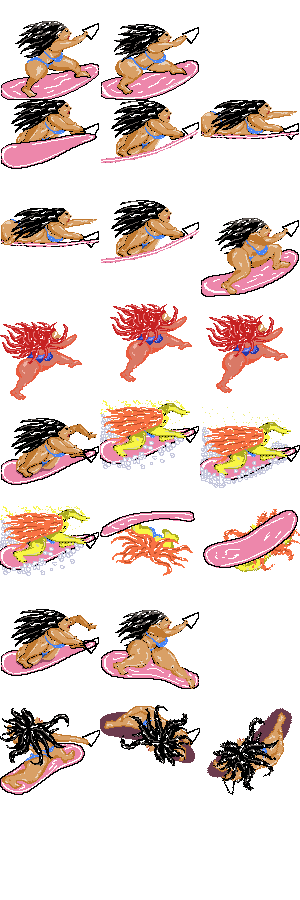
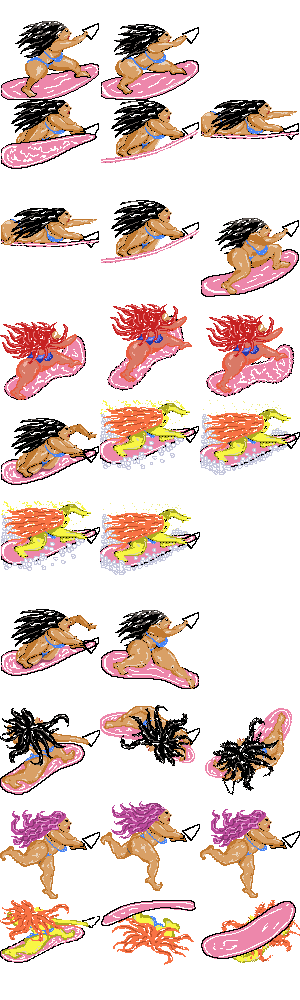
Obsticle Movement Update

diff --git a/FlowObstacle.c b/FlowObstacle.c
@@ -63,7 +63,6 @@ void UpdateObstaclesPosition()
 			else
 			{
 				Obstacles[i].ObstaclePos.x -= GameData.Speed*CP_System_GetDt();
-				
 			}
 		}
 	}
@@ -82,9 +81,14 @@ bool CheckObstaclesCollision()
 	if (CharacterData.CharacterState == STANDING && !CharacterData.bEndWaveInvincible)
 	{
 		float CharacterMinX = CharacterData.CharacterPos.x + CharacterData.CharacterCollisionOffset.x;
-		float CharacterMaxX = CharacterMinX + CharacterData.CharacterCollisionSize.x + CharacterData.CharacterCollisionOffset.x;
-		float CharacterMinY = CharacterData.CharacterPos.y;
+		float CharacterMaxX = CharacterMinX + CharacterData.CharacterCollisionSize.x;
+		float CharacterMinY = CharacterData.CharacterPos.y + CharacterData.CharacterCollisionOffset.y;
 		float CharacterMaxY = CharacterMinY + CharacterData.CharacterCollisionSize.y;
+		if (bDebugMode)
+		{
+			CP_Settings_Fill(CP_Color_Create(0, 0, 0, 100));
+			CP_Graphics_DrawRect(GameData.LaneMin.x + CharacterMinX, GameData.LaneMin.y + CharacterMinY, CharacterMaxX - CharacterMinX, CharacterMaxY - CharacterMinY);
+		}
 		for (int i = 0;i < MAX_OBSTACLES;i++)
 		{
 			if (Obstacles[i].bIsValid)
@@ -229,7 +233,7 @@ void RenderCharacter_Internal()
 		}
 	}
 	float CharacterDrawRatio = 0.8f + 0.2f * (CharacterData.CharacterPos.y / (GameData.LaneMax.y - GameData.LaneMin.y));
-	if(CharacterData.CharacterState == WAVING)
+	if(CharacterData.CharacterState == WAVING || CharacterData.CharacterState == HEIGHESTWAVE)
 	{
 		CharacterDrawRatio = 0.7f;
 	}
@@ -243,22 +247,23 @@ void RenderCharacter_Internal()
 		100.f * (CharacterData.AnimationFrame+1) - 1,
 		100.f * (CharacterData.CharacterState + 1) - 1,
 		255);
-	CP_Settings_Fill(CP_Color_Create(0, 0, 0, 100));
-	CP_Graphics_DrawRect(GameData.LaneMin.x + CharacterData.CharacterPos.x + CharacterData.CharacterCollisionOffset.x, GameData.LaneMin.y + CharacterData.CharacterPos.y, CharacterData.CharacterCollisionSize.x, CharacterData.CharacterCollisionSize.y);
 }
 
 void RenderObjects()
 {
 	if (CharacterData.CharacterState == COLLISION || CharacterData.CharacterState == JUMPUP || CharacterData.CharacterState == JUMPDOWN)
 	{
-		CP_Settings_Fill(CP_Color_Create(255, 255, 0, 255));
+		CP_Settings_Fill(CP_Color_Create(255, 255, 0, 100));
 		for (int i = 0;i < MAX_OBSTACLES; i++)
 		{
 			if (Obstacles[i].bIsValid)
 			{
 				CP_Image_Draw(Obstacles[i].ObstacleImage, GameData.LaneMin.x + Obstacles[i].ObstaclePos.x, GameData.LaneMin.y + Obstacles[i].ObstaclePos.y, Obstacles[i].ObstacleImageSize.x, Obstacles[i].ObstacleImageSize.y, 255);
 				//CollisionDebug
-				CP_Graphics_DrawRect(GameData.LaneMin.x + Obstacles[i].ObstaclePos.x + Obstacles[i].ObstacleCollisionStartOffset.x, GameData.LaneMin.y + Obstacles[i].ObstaclePos.y + Obstacles[i].ObstacleCollisionStartOffset.y, Obstacles[i].ObstacleCollisionSize.x + Obstacles[i].ObstacleCollisionStartOffset.x, Obstacles[i].ObstacleCollisionSize.y);
+				if (bDebugMode)
+				{
+					CP_Graphics_DrawRect(GameData.LaneMin.x + Obstacles[i].ObstaclePos.x + Obstacles[i].ObstacleCollisionStartOffset.x, GameData.LaneMin.y + Obstacles[i].ObstaclePos.y + Obstacles[i].ObstacleCollisionStartOffset.y, Obstacles[i].ObstacleCollisionSize.x + Obstacles[i].ObstacleCollisionStartOffset.x, Obstacles[i].ObstacleCollisionSize.y);
+				}
 			}
 		}
 		RenderCharacter_Internal();
@@ -278,11 +283,15 @@ void RenderObjects()
 			if (Obstacles[i].bIsValid)
 			{
 				// 장애물 그리기
-				CP_Image_Draw(Obstacles[i].ObstacleImage, GameData.LaneMin.x + Obstacles[i].ObstaclePos.x, GameData.LaneMin.y + Obstacles[i].ObstaclePos.y, Obstacles[i].ObstacleImageSize.x, Obstacles[i].ObstacleImageSize.y, 255);
+				CP_Image_Draw(Obstacles[i].ObstacleImage, floorf(GameData.LaneMin.x + Obstacles[i].ObstaclePos.x), GameData.LaneMin.y + Obstacles[i].ObstaclePos.y, Obstacles[i].ObstacleImageSize.x, Obstacles[i].ObstacleImageSize.y, 255);
 				//CollisionDebug
-				CP_Settings_Fill(CP_Color_Create(255, 255, 0, 255));
-				CP_Graphics_DrawRect(GameData.LaneMin.x + Obstacles[i].ObstaclePos.x + Obstacles[i].ObstacleCollisionStartOffset.x, GameData.LaneMin.y + Obstacles[i].ObstaclePos.y+Obstacles[i].ObstacleCollisionStartOffset.y, Obstacles[i].ObstacleCollisionSize.x + Obstacles[i].ObstacleCollisionStartOffset.x, Obstacles[i].ObstacleCollisionSize.y);
+				if (bDebugMode)
+				{
+					CP_Settings_Fill(CP_Color_Create(255, 255, 0,100));
+					CP_Graphics_DrawRect(GameData.LaneMin.x + Obstacles[i].ObstaclePos.x + Obstacles[i].ObstacleCollisionStartOffset.x, GameData.LaneMin.y + Obstacles[i].ObstaclePos.y + Obstacles[i].ObstacleCollisionStartOffset.y, Obstacles[i].ObstacleCollisionSize.x + Obstacles[i].ObstacleCollisionStartOffset.x, Obstacles[i].ObstacleCollisionSize.y);
+				}
 			}
+
 		}
 
 		// 만약 캐릭터가 가장 아래쪽일 경우 (아직 안 그려졌다면)

diff --git a/AssetLib.c b/AssetLib.c
@@ -80,55 +80,55 @@ void InitAsset()
 
 	BoxData.ObstacleImage = CP_Image_Load("./Assets/Box.png");
 	BoxData.ObstacleImageSize = CP_Vector_Set(120.f, 30.f);
-	BoxData.ObstacleCollisionStartOffset = CP_Vector_Set(10.f, 20.f);
-	BoxData.ObstacleCollisionSize = CP_Vector_Set(100.f, 10.f);
+	BoxData.ObstacleCollisionStartOffset = CP_Vector_Set(15.f, 20.f);
+	BoxData.ObstacleCollisionSize = CP_Vector_Set(80.f, 10.f);
 	BoxData.Score = 50.f;
 	//TODO : Image Size and collision size tune needed
 	BallData.ObstacleImage = CP_Image_Load("./Assets/Ball.png");
 	BallData.ObstacleImageSize = CP_Vector_Set(80.f, 50.f);
-	BallData.ObstacleCollisionStartOffset = CP_Vector_Set(10.f, 20.f);
+	BallData.ObstacleCollisionStartOffset = CP_Vector_Set(10.f, 10.f);
 	BallData.ObstacleCollisionSize = CP_Vector_Set(50.f, 30.f);
 	BallData.Score = 50.f;
 
 	DolpinData.ObstacleImage = CP_Image_Load("./Assets/Dolpin.png");
 	DolpinData.ObstacleImageSize = CP_Vector_Set(80.f, 50.f);
-	DolpinData.ObstacleCollisionStartOffset = CP_Vector_Set(10.f, 20.f);
+	DolpinData.ObstacleCollisionStartOffset = CP_Vector_Set(10.f, 10.f);
 	DolpinData.ObstacleCollisionSize = CP_Vector_Set(50.f, 30.f);
 	DolpinData.Score = 50.f;
 
 	CameraData.ObstacleImage = CP_Image_Load("./Assets/Camera.png");
 	CameraData.ObstacleImageSize = CP_Vector_Set(80.f, 50.f);
-	CameraData.ObstacleCollisionStartOffset = CP_Vector_Set(10.f, 20.f);
+	CameraData.ObstacleCollisionStartOffset = CP_Vector_Set(10.f, 10.f);
 	CameraData.ObstacleCollisionSize = CP_Vector_Set(50.f, 30.f);
 	CameraData.Score = 50.f;
 
 	IcecreamData.ObstacleImage = CP_Image_Load("./Assets/Icecream.png");
 	IcecreamData.ObstacleImageSize = CP_Vector_Set(80.f, 50.f);
-	IcecreamData.ObstacleCollisionStartOffset = CP_Vector_Set(10.f, 20.f);
+	IcecreamData.ObstacleCollisionStartOffset = CP_Vector_Set(10.f, 10.f);
 	IcecreamData.ObstacleCollisionSize = CP_Vector_Set(50.f, 30.f);
 	IcecreamData.Score = 50.f;
 
 	StarFishData.ObstacleImage = CP_Image_Load("./Assets/StarFish.png");
 	StarFishData.ObstacleImageSize = CP_Vector_Set(80.f, 50.f);
-	StarFishData.ObstacleCollisionStartOffset = CP_Vector_Set(10.f, 20.f);
+	StarFishData.ObstacleCollisionStartOffset = CP_Vector_Set(10.f, 10.f);
 	StarFishData.ObstacleCollisionSize = CP_Vector_Set(50.f, 30.f);
 	StarFishData.Score = 50.f;
 
 	TubeData.ObstacleImage = CP_Image_Load("./Assets/Tube.png");
 	TubeData.ObstacleImageSize = CP_Vector_Set(80.f, 50.f);
-	TubeData.ObstacleCollisionStartOffset = CP_Vector_Set(10.f, 20.f);
+	TubeData.ObstacleCollisionStartOffset = CP_Vector_Set(10.f, 10.f);
 	TubeData.ObstacleCollisionSize = CP_Vector_Set(50.f, 30.f);
 	TubeData.Score = 50.f;
 
 	CrabData.ObstacleImage = CP_Image_Load("./Assets/Crab.png");
 	CrabData.ObstacleImageSize = CP_Vector_Set(80.f, 50.f);
-	CrabData.ObstacleCollisionStartOffset = CP_Vector_Set(10.f, 20.f);
+	CrabData.ObstacleCollisionStartOffset = CP_Vector_Set(10.f, 10.f);
 	CrabData.ObstacleCollisionSize = CP_Vector_Set(50.f, 30.f);
 	CrabData.Score = 50.f;
 
 	JellyfishData.ObstacleImage = CP_Image_Load("./Assets/Jellyfish.png");
 	JellyfishData.ObstacleImageSize = CP_Vector_Set(80.f, 50.f);
-	JellyfishData.ObstacleCollisionStartOffset = CP_Vector_Set(10.f, 20.f);
+	JellyfishData.ObstacleCollisionStartOffset = CP_Vector_Set(10.f, 10.f);
 	JellyfishData.ObstacleCollisionSize = CP_Vector_Set(50.f, 30.f);
 	JellyfishData.Score = 50.f;
 

diff --git a/Game.c b/Game.c
@@ -33,6 +33,7 @@ void game_init(void)
 	CP_Settings_RectMode(CP_POSITION_CORNER);
 	CP_Settings_TextSize(64);
 	CP_Settings_TextAlignment(CP_TEXT_ALIGN_H_LEFT, CP_TEXT_ALIGN_V_TOP);
+	CP_System_SetFrameRate(120);
 	// initialize variables and CProcessing settings for this gamestate
 }
 
@@ -50,16 +51,17 @@ void game_update(void)
 	DrawWater();
 	//	CP_Graphics_DrawRect(GameData.LaneMin.x, GameData.LaneMin.y, GameData.LaneMax.x-GameData.LaneMin.x, GameData.LaneMax.y - GameData.LaneMin.y);
 
-	RenderObjects();
+
 	UpdateKeyInput();
 	UpdateCharacterPosition();
 	UpdateObstaclesPosition();
 	UpdateItemsPosition();
+	CheckItemsCollision();
 	DrawNearBackGround();
+	RenderObjects();
 	RenderBatteries();
 	RenderSpeedItems();
 	RenderMedal();
-	CheckItemsCollision();
 
 	if (BigWaveData.WaveIndex >= BigWaveData.WaveRiderableStartIndex + 1 && BigWaveData.WaveIndex <= BigWaveData.WaveRiderableEndIndex - 1)
 	{
@@ -76,14 +78,7 @@ void game_update(void)
 
 	if (CharacterData.CharacterState == JUMPDOWN)
 	{
-		//Debug
-		CP_Settings_Fill(CP_Color_Create(128, 128, 128, 128));
-		CP_Graphics_DrawRect(GameData.LaneMin.x + CharacterData.CharacterPos.x, GameData.LaneMin.y + CharacterData.CharacterPos.y, 40.f, 20.f);
 		CharacterData.JumpTimer += CP_System_GetDt();
-		//if (CharacterData.JumpTimer > 1.5f)
-		//{
-		//	SetCharacterState(STANDING);
-		//}
 	}
 	if (CharacterData.JumpTimer != 0.f)//TODO : nearly 0
 	{
@@ -95,8 +90,6 @@ void game_update(void)
 	}
 	if (CharacterData.CharacterState == COLLISION)
 	{
-		CP_Settings_Fill(CP_Color_Create(0, 0, 0, 128));
-		CP_Graphics_DrawRect(GameData.LaneMin.x + CharacterData.CharacterPos.x, GameData.LaneMin.y + CharacterData.CharacterPos.y, 40.f, 20.f);
 		CharacterData.CollisionTimer += CP_System_GetDt();
 		if (CharacterData.CollisionTimer > 1.5f)
 		{
@@ -113,7 +106,7 @@ void game_update(void)
 			CharacterData.EndWaveInvincibleTimer = 0.f;
 		}
 	}
-
+	
 	if (GameData.Speed < 3000.f)// update game speed
 	{
 		GameData.SpeedTimer += CP_System_GetDt();
@@ -145,9 +138,14 @@ void game_update(void)
 	//TEST
 	CharacterData.Score += CP_System_GetDt()*GameData.Speed*0.1f;
 	char ScoreBuffer[128] = { 0 };
-	sprintf_s(ScoreBuffer, 128, "Score : %f", CharacterData.Score);
+	sprintf_s(ScoreBuffer, 128, "Score : %10.2f\n%.6f", CharacterData.Score, CP_System_GetDt());
 	CP_Font_DrawText(ScoreBuffer, 0.f, GameData.LaneMax.y);
 
+
+	if (CP_System_GetDt() > 0.016 * 2)
+	{
+		printf("delayed");
+	}
 }
 
 // use CP_Engine_SetNextGameState to specify this function as the exit function

diff --git a/GlobalVariables.c b/GlobalVariables.c
@@ -16,6 +16,9 @@ FBigWaveData BigWaveData;
 
 float InitGameSpeed = 200.f;
 
+//Debug only, Set false when release
+bool bDebugMode = false;
+
 void InitGameData()
 {
 	GameData.Speed = InitGameSpeed;
@@ -32,8 +35,8 @@ void InitGameData()
 void InitCharacterData()
 {
 	CharacterData.CharacterPos = CP_Vector_Set((GameData.LaneMax.x-GameData.LaneMin.x)/5.f,(GameData.LaneMax.y-GameData.LaneMin.y)/2.f);
-	CharacterData.CharacterCollisionSize = CP_Vector_Set(180.f,60.f);//TODO : Use Image and Set Collision Size
-	CharacterData.CharacterCollisionOffset = CP_Vector_Set(10.f, 0.f);
+	CharacterData.CharacterCollisionSize = CP_Vector_Set(90.f,40.f);//TODO : Use Image and Set Collision Size
+	CharacterData.CharacterCollisionOffset = CP_Vector_Set(55.f, -10.f);
 	CharacterData.JumpTimer = 0.f;
 	CharacterData.Energy = 200.f;
 	CharacterData.CollisionTimer = 0.f;
@@ -110,19 +113,19 @@ void SetCharacterState(ECharacterState NewState)
 			CharacterData.AnimationMaxFrame = 1;
 			break;
 		case JUMPUP :
-			CharacterData.AnimationMaxFrame = 1;
+			CharacterData.AnimationMaxFrame = 2;
 			break;
 		case JUMPDOWN :
-			CharacterData.AnimationMaxFrame = 1;
+			CharacterData.AnimationMaxFrame = 2;
 			break;
 		case COLLISION : 
 			CharacterData.AnimationMaxFrame = 2;
 			break;
 		case STARTWAVE :
-			CharacterData.AnimationMaxFrame = 1;
+			CharacterData.AnimationMaxFrame = 2;
 			break;
 		case WAVING : 
-			CharacterData.AnimationMaxFrame = 2;
+			CharacterData.AnimationMaxFrame = 1;
 			break;
 		case ENDWAVE : 
 			CharacterData.AnimationMaxFrame = 1;
@@ -131,6 +134,9 @@ void SetCharacterState(ECharacterState NewState)
 			CharacterData.AnimationMaxFrame = 2;
 			break;
 		case COMBO2 : 
+			CharacterData.AnimationMaxFrame = 2;
+			break;
+		case HEIGHESTWAVE:
 			CharacterData.AnimationMaxFrame = 2;
 			break;
 		default:

diff --git a/BigWave.c b/BigWave.c
@@ -21,9 +21,23 @@ void UpdateWave()
 		float ImageSizeY = (float)CP_Image_GetHeight(BigWaveData.WaveImage);
 		BigWaveData.AnimationTimer += CP_System_GetDt();
 
-		if (CharacterData.CharacterState == WAVING)
+		if (CharacterData.CharacterState == WAVING || CharacterData.CharacterState == HEIGHESTWAVE)
 		{
 			CharacterData.Score += CP_System_GetDt() * GameData.Speed*0.2f;
+		}
+		if (BigWaveData.WaveIndex > BigWaveData.WaveRiderableStartIndex && BigWaveData.WaveIndex < BigWaveData.WaveRiderableEndIndex)
+		{
+			if (CharacterData.CharacterState == WAVING) 
+			{
+				SetCharacterState(HEIGHESTWAVE);
+			}
+		}
+		else
+		{
+			if (CharacterData.CharacterState == HEIGHESTWAVE)
+			{
+				SetCharacterState(WAVING);
+			}
 		}
 		float DrawOffsetY = BigWaveData.WaveIndex < BigWaveData.WaveMaxIndex / 2 ? BigWaveData.WaveImageSize.y/4.f * (AnimationNextTime - BigWaveData.AnimationTimer) / AnimationNextTime : BigWaveData.WaveImageSize.y / 4.f * (BigWaveData.AnimationTimer)/ AnimationNextTime;
 		if (!BigWaveData.bIsRiderable)

diff --git a/GameStruct.h b/GameStruct.h
@@ -14,6 +14,7 @@ typedef enum ECharacterState {
 	ENDWAVE = 6,		//Image num 2
 	COMBO1 = 7,			//Image num 2
 	COMBO2 = 8,			//Image num 2
+	HEIGHESTWAVE = 9,
 }ECharacterState;
 
 typedef enum ECharacterComboState {

diff --git a/GlobalVariables.h b/GlobalVariables.h
@@ -22,6 +22,8 @@ extern FBigWaveData BigWaveData;
 
 extern float InitGameSpeed;
 
+extern bool bDebugMode;
+
 void InitGameData();
 
 void InitCharacterData();
